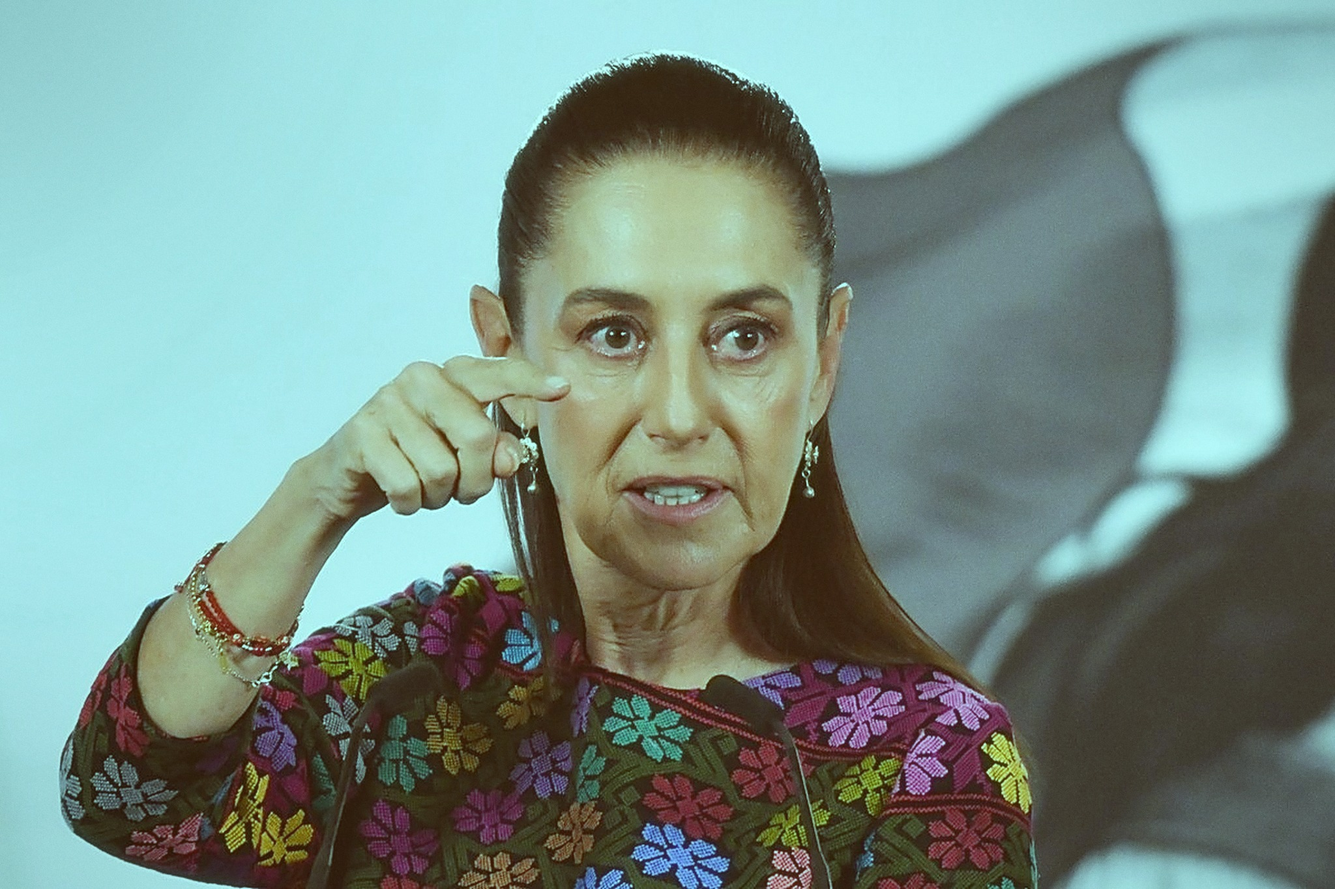
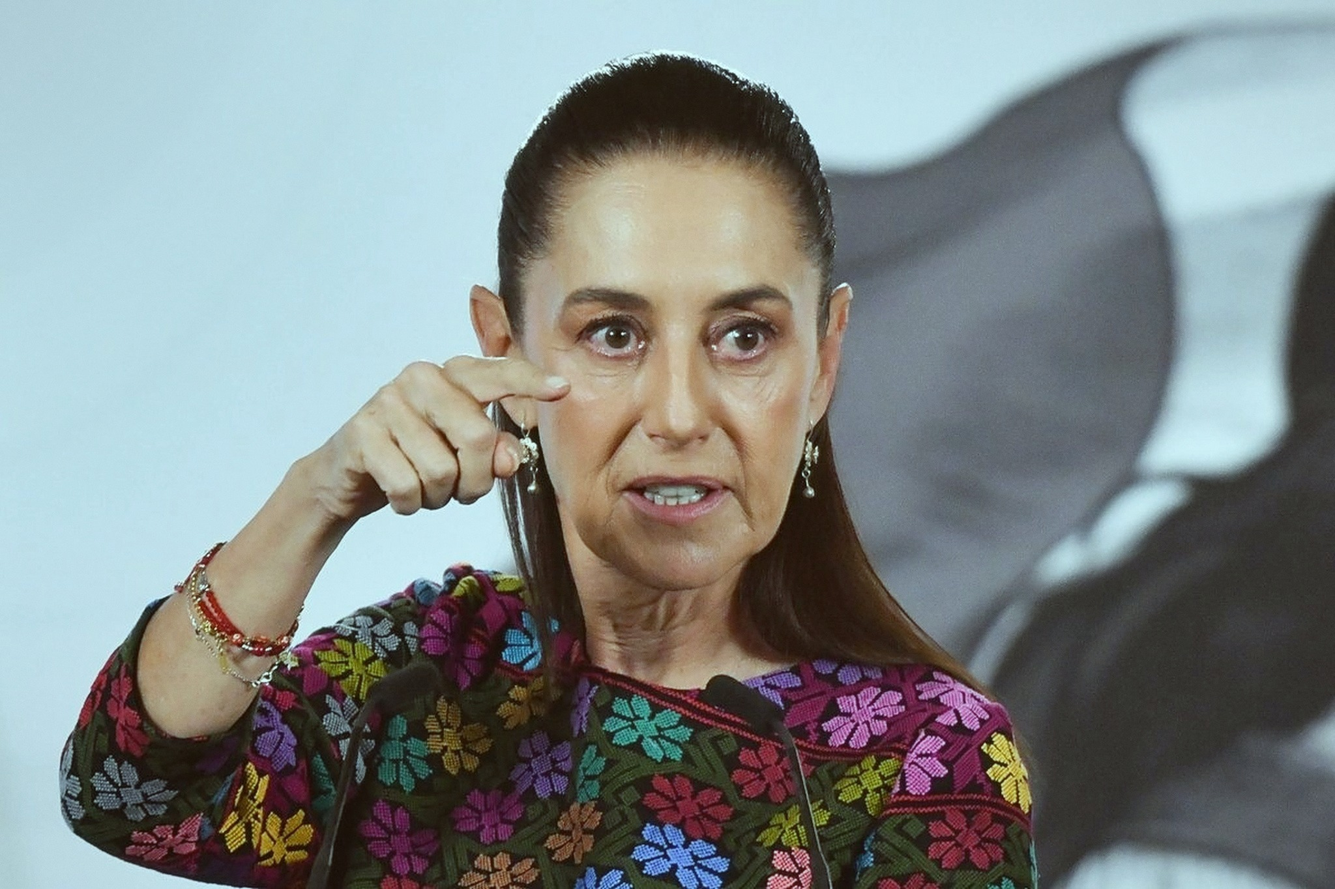
Soften Sheinbaum ICE featured to half-strength cine

diff --git a/translations/2026-07-08-mexico-ice-legal-measures/article.html b/translations/2026-07-08-mexico-ice-legal-measures/article.html
@@ -1,5 +1,5 @@
-<!-- wp:image {"id":17756,"sizeSlug":"large"} -->
-<figure class="wp-block-image size-large"><img src="https://mexicosolidarity.com/wp-content/uploads/2026/07/2026-07-08-mexico-ice-legal-measures-large-1.jpg" alt="President Claudia Sheinbaum during her morning press conference at the National Palace." class="wp-image-17756"/><figcaption class="wp-element-caption">Photo: Cuartoscuro</figcaption></figure>
+<!-- wp:image {"id":17759,"sizeSlug":"large"} -->
+<figure class="wp-block-image size-large"><img src="https://mexicosolidarity.com/wp-content/uploads/2026/07/2026-07-08-mexico-ice-legal-measures-cinehalf-large.jpg" alt="President Claudia Sheinbaum during her morning press conference at the National Palace." class="wp-image-17759"/><figcaption class="wp-element-caption">Photo: Cuartoscuro</figcaption></figure>
 <!-- /wp:image -->
 
 <!-- wp:paragraph -->
